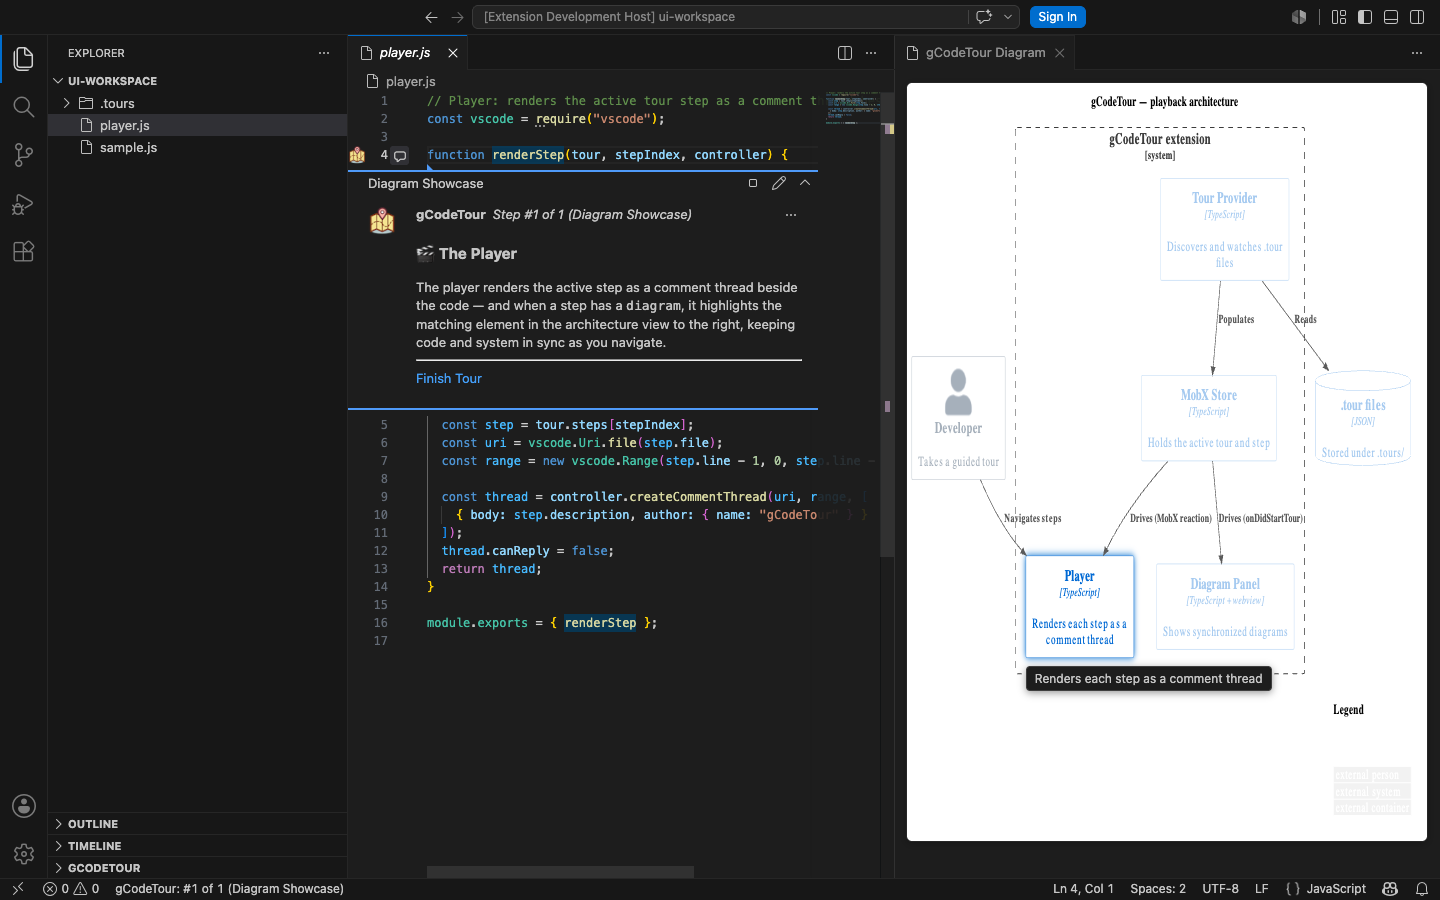
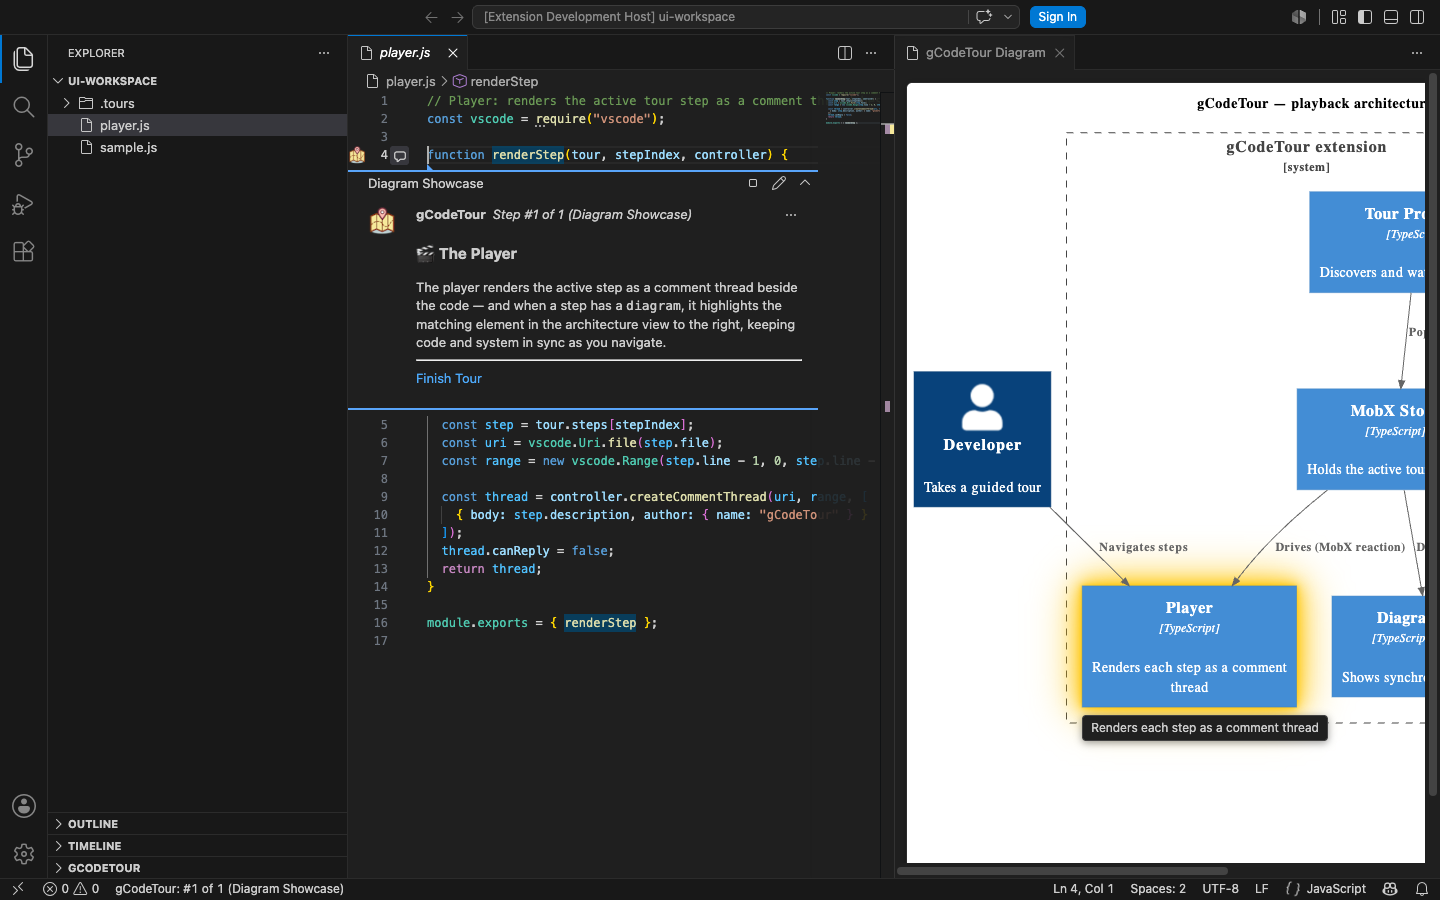
Release v0.2606.2401: render diagram beside the editor on empty-workbench start; bolder gold highlight
Empty-workbench fix (done properly): the panel now waits for the step's
editor group to exist, then opens Beside it (visible in its own column,
never moved). On an empty workbench ViewColumn.Beside collapses into the
only column, so the panel landed in the editor's group and stayed hidden
behind it; a never-shown webview also never loads its client, so the SVG
never rendered. The prior "move beside after the editor opens" approach
reloaded the iframe and dropped the rendered diagram.

Bolder highlight: thicker non-scaling gold stroke + wider multi-layer
glow so the active element pops without dimming anything else.

Also fixed two UI-test flaws that masked this: the webview frame locator
needs .first(), and the screenshot spec must close the Copilot chat (also
an iframe.webview) before locating the diagram. Regenerated the README
screenshot.

Claude-Session: https://claude.ai/code/session_01Gj9MhbBneKkZ5z4jzdipKi

diff --git a/src/player/diagram/index.ts b/src/player/diagram/index.ts
@@ -7,7 +7,14 @@
 // dumb view. Reads SVG bytes via `workspace.fs` so it works in both the desktop
 // (node) and web (webworker) extension hosts.
 
-import { commands, ExtensionContext, Uri, window, workspace } from "vscode";
+import {
+  commands,
+  ExtensionContext,
+  Uri,
+  ViewColumn,
+  window,
+  workspace
+} from "vscode";
 import { CodeTour, store } from "../../store";
 import { onDidEndTour, onDidStartTour } from "../../store/actions";
 import { parseDiagramFromStep } from "./model";
@@ -36,21 +43,7 @@ export function registerDiagramModule(context: ExtensionContext): void {
   });
   const endSub = onDidEndTour(() => handleEndTour());
 
-  // On an empty workbench the panel is created before the step's editor opens, so
-  // the editor lands in the panel's column and hides it. When an editor becomes
-  // active in the panel's column, move the panel beside it so both stay visible.
-  const editorSub = window.onDidChangeActiveTextEditor(editor => {
-    if (
-      panel &&
-      editor &&
-      editor.viewColumn !== undefined &&
-      panel.viewColumn === editor.viewColumn
-    ) {
-      panel.revealBeside();
-    }
-  });
-
-  context.subscriptions.push(startSub, endSub, editorSub, {
+  context.subscriptions.push(startSub, endSub, {
     dispose: () => disposePanel()
   });
 }
@@ -98,7 +91,12 @@ async function handleStep(
 
   let created = false;
   if (!panel) {
-    panel = DiagramPanel.create(extensionUri, beside, onPanelDisposed);
+    const viewColumn = await resolveColumn(beside, token);
+    // A newer navigation superseded us while waiting for the editor group.
+    if (token !== renderToken) {
+      return;
+    }
+    panel = DiagramPanel.create(extensionUri, viewColumn, onPanelDisposed);
     created = true;
     setPanelOpen(true);
   }
@@ -138,6 +136,61 @@ function handleEndTour(): void {
   disposePanel();
   currentTourId = null;
   currentPath = null;
+}
+
+// Resolves the column to open the panel in so it lands VISIBLE in its own group
+// and is never moved afterwards (moving a webview between columns reloads its
+// iframe and drops the rendered SVG; a webview that is never shown never loads
+// its client at all).
+//
+// The trap: on an *empty* workbench `ViewColumn.Beside` (and even an explicit
+// `ViewColumn.Two`) collapse to the only column — so the panel lands in the same
+// group as the step's editor, hidden behind it. Every step opens an editor (a
+// real file, or the virtual document a content step renders) in column One, so we
+// wait for that editor to exist first; then `Beside` correctly resolves to a
+// second, visible column.
+async function resolveColumn(
+  beside: boolean,
+  token: number
+): Promise<ViewColumn> {
+  if (!beside) {
+    return ViewColumn.Active;
+  }
+  if (!hasOpenTab()) {
+    await waitForEditorGroup(token);
+  }
+  return ViewColumn.Beside;
+}
+
+function hasOpenTab(): boolean {
+  return window.tabGroups.all.some(group => group.tabs.length > 0);
+}
+
+// Resolves once an editor group exists (so "Beside" has something to sit beside),
+// or this step is superseded, or a defensive timeout elapses — never hangs.
+function waitForEditorGroup(token: number): Promise<void> {
+  return new Promise(resolve => {
+    if (hasOpenTab()) {
+      resolve();
+      return;
+    }
+    let settled = false;
+    const finish = () => {
+      if (settled) {
+        return;
+      }
+      settled = true;
+      sub.dispose();
+      clearTimeout(timer);
+      resolve();
+    };
+    const sub = window.tabGroups.onDidChangeTabs(() => {
+      if (hasOpenTab() || token !== renderToken) {
+        finish();
+      }
+    });
+    const timer = setTimeout(finish, 3000);
+  });
 }
 
 async function readSvg(path: string): Promise<string | null> {

diff --git a/src/player/diagram/panel.ts b/src/player/diagram/panel.ts
@@ -22,22 +22,14 @@ export class DiagramPanel {
 
   private constructor(
     private readonly extensionUri: Uri,
-    beside: boolean,
+    viewColumn: ViewColumn,
     private readonly onDispose: () => void
   ) {
     const mediaRoot = Uri.joinPath(this.extensionUri, "media", "diagram");
-    // ViewColumn.Beside/Active with an empty workbench (a tour whose first step is
-    // a content/directory step opens no editor) produces no visible panel — the
-    // diagram then only appears after navigating to a step that opens an editor.
-    // Fall back to a concrete column when there's nothing to sit beside.
-    const hasOpenTab = window.tabGroups.all.some(
-      group => group.tabs.length > 0
-    );
-    const viewColumn = !hasOpenTab
-      ? ViewColumn.One
-      : beside
-        ? ViewColumn.Beside
-        : ViewColumn.Active;
+    // The column is chosen by the caller so the panel opens VISIBLE in its own
+    // group (never hidden behind the step's editor — a hidden webview never loads
+    // its client, so the SVG would never render — and never moved after, which
+    // would reload it). preserveFocus keeps the editor focused.
     this.panel = window.createWebviewPanel(
       VIEW_TYPE,
       TITLE,
@@ -67,10 +59,10 @@ export class DiagramPanel {
 
   static create(
     extensionUri: Uri,
-    beside: boolean,
+    viewColumn: ViewColumn,
     onDispose: () => void
   ): DiagramPanel {
-    return new DiagramPanel(extensionUri, beside, onDispose);
+    return new DiagramPanel(extensionUri, viewColumn, onDispose);
   }
 
   /** Posts a message, buffering it (latest-wins) until the client signals ready. */
@@ -85,16 +77,6 @@ export class DiagramPanel {
   /** Surfaces the panel in its existing column, without stealing editor focus. */
   reveal(): void {
     this.panel.reveal(undefined, true);
-  }
-
-  /** The column the panel currently occupies (undefined if not visible). */
-  get viewColumn(): ViewColumn | undefined {
-    return this.panel.viewColumn;
-  }
-
-  /** Moves the panel to the column beside the active group (keeping focus). */
-  revealBeside(): void {
-    this.panel.reveal(ViewColumn.Beside, true);
   }
 
   dispose(): void {

diff --git a/tests/ui/screenshot.gen.spec.ts b/tests/ui/screenshot.gen.spec.ts
@@ -39,8 +39,22 @@ gen(
       )
       .toBe(true);
 
+    // Close chrome that distracts from the feature (Copilot chat / bottom panel)
+    // FIRST: the chat in the auxiliary bar is ALSO an `iframe.webview`, so closing
+    // it before locating the diagram makes `.first()` land deterministically on
+    // the diagram webview (otherwise the locator flakily resolves to the chat and
+    // finds neither the highlight nor the callout).
+    await evaluateInVSCode(async vscode => {
+      await vscode.commands.executeCommand(
+        "workbench.action.closeAuxiliaryBar"
+      );
+      await vscode.commands.executeCommand("workbench.action.closePanel");
+    });
+    await workbox.waitForTimeout(500);
+
     const webview = workbox
       .frameLocator("iframe.webview")
+      .first()
       .frameLocator("iframe#active-frame");
 
     // Wait until the diagram has rendered, highlighted, and shown its callout.
@@ -48,14 +62,6 @@ gen(
       timeout: 30_000
     });
     await expect(webview.locator("#diagram-callout")).toBeVisible();
-
-    // Close chrome that distracts from the feature (Copilot chat / bottom panel).
-    await evaluateInVSCode(async vscode => {
-      await vscode.commands.executeCommand(
-        "workbench.action.closeAuxiliaryBar"
-      );
-      await vscode.commands.executeCommand("workbench.action.closePanel");
-    });
 
     // Let layout settle, then capture the whole VS Code window (editor + diagram).
     await workbox.waitForTimeout(750);

diff --git a/src/player/diagram/client/client.css b/src/player/diagram/client/client.css
@@ -69,9 +69,16 @@ ellipse.ct-highlight,
 circle.ct-highlight,
 polygon.ct-highlight,
 path.ct-highlight {
-  stroke: #ffb300;
-  stroke-width: 4px;
-  filter: drop-shadow(0 0 6px #ffb300) drop-shadow(0 0 2px #ffb300);
+  stroke: #ffc400;
+  stroke-width: 7px;
+  /* Hold the border at 7 CSS px regardless of the SVG's intrinsic scale, so the
+     highlight reads the same on a small diagram and a large one (where a
+     user-unit stroke would shrink to a thin line). */
+  vector-effect: non-scaling-stroke;
+  /* A wide, layered gold glow so the active node clearly pops without dimming
+     anything else — the earlier single 6px shadow washed out in real VS Code. */
+  filter: drop-shadow(0 0 3px #ffc400) drop-shadow(0 0 9px #ffc400)
+    drop-shadow(0 0 20px rgba(255, 196, 0, 0.85));
 }
 
 #diagram-callout {

diff --git a/tests/ui/diagram.spec.ts b/tests/ui/diagram.spec.ts
@@ -25,10 +25,14 @@ async function startDiagramTour(
     .toBe(true);
 }
 
-// The diagram webview content lives in VS Code's nested webview iframes.
+// The diagram webview content lives in VS Code's nested webview iframes. The
+// `.first()` is load-bearing: a bare `frameLocator("iframe.webview")` in a chain
+// does not resolve reliably here (it intermittently yields zero matches even when
+// the single diagram webview is present and rendered), so pin it to the first.
 function diagramWebview(workbox: any) {
   return workbox
     .frameLocator("iframe.webview")
+    .first()
     .frameLocator("iframe#active-frame");
 }
 

diff --git a/CHANGELOG.md b/CHANGELOG.md
@@ -4,6 +4,11 @@
 - Automatically set the "pattern" record mode when you create a new tour, and select `None` for the git ref
 - Added support for opening a `*.tour` file in the VS Code notebook editor (Insiders only)
 
+## v0.2606.2401 (06/24/26)
+
+- **Diagram panel on an empty workbench, fixed properly.** When a tour started with no editors open, the panel still didn't render: on an empty workbench `ViewColumn.Beside` collapses into the only column, so the panel landed in the same group as the step's editor and sat hidden behind it — and a webview that is never shown never loads its client, so the SVG never rendered. The previous "move it beside after the editor opens" approach reloaded the webview's iframe (dropping the rendered diagram). The panel now **waits for the step's editor group to exist, then opens beside it** — created visible in its own column and never moved, so the diagram renders and stays side by side with the code.
+- **Bolder diagram highlight.** The gold border + glow was too subtle in practice. The border is now thicker and uses a non-scaling stroke (so it doesn't thin out on large diagrams), with a wider multi-layer glow, making the active element clearly pop without dimming anything else.
+
 ## v0.2606.2309 (06/23/26)
 
 - Fixed the diagram panel being hidden when a tour is started with **no editors open**. The panel is created before the step's editor opens, so the editor landed in the panel's column and covered it (the diagram showed as a background tab, or not at all). The panel now detects when an editor opens into its column and moves itself beside it — so the editor and diagram sit side by side and the diagram stays visible. (Earlier fix made the tab exist; this makes it actually shown.)